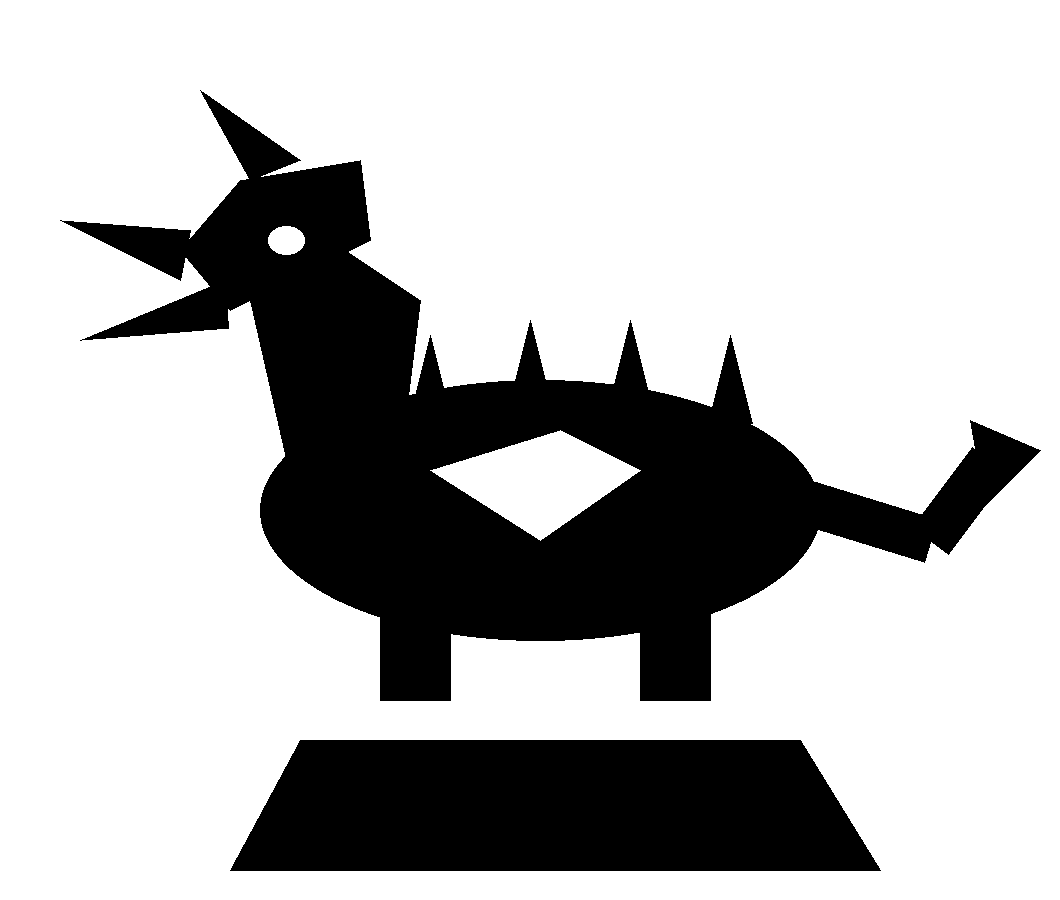
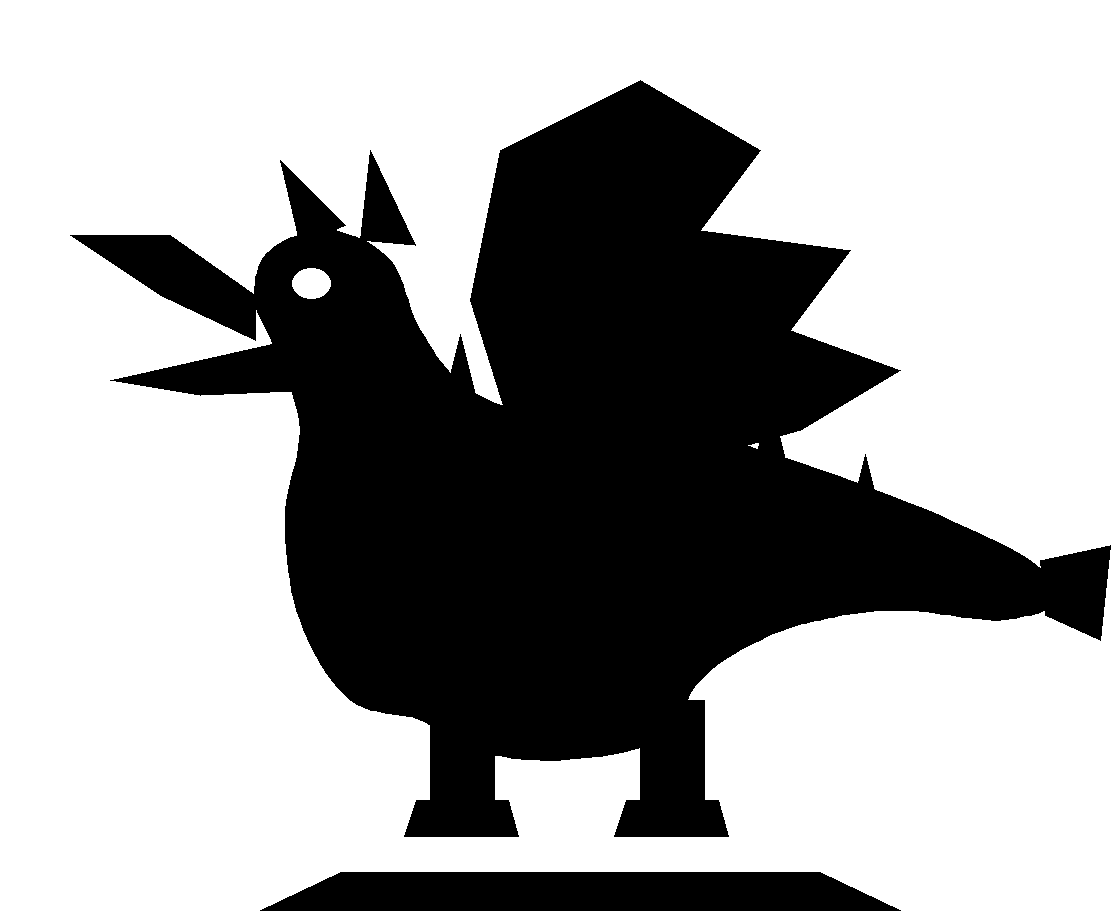
Wawel dragon take three: realistic per Eric's note, still pending
"wawel dragon more realistic if possible better pic". The Chromy
statue is still-copyrighted sculpture, so the realism is drawn: a
smooth Catmull-Rom body, a single falcate bat-wing whose cusps carry
the membrane read (spoke seams severed the wing into flagged strips
twice), horned head with open jaw rooted 40px into the throat after
hovering twice, tapered tail with its spade. Zero corridor flags.
Pending Eric's eye with the rest of batch 6.

diff --git a/tools/draw_wave14.py b/tools/draw_wave14.py
@@ -29,36 +29,61 @@ def circle(d, cx, cy, r, fill):
 
 
 def waweldragon():
-    """Krakow's dragon in clean profile: arched neck, horned head with
-    open jaw, four back spikes, a folded wing as a hole, tail with its
-    spade — standing on the rock across an aligned gap."""
-    im, d = canvas(1060, 900)
-    # body: long horizontal mass
-    d.ellipse([260, 380, 820, 640], fill=BLACK)
-    # neck arching up-left, rooted deep
-    d.polygon([(300, 520), (250, 300), (330, 240), (420, 300), (400, 460)], fill=BLACK)
-    # head: skull + horn + open jaw, welded to the neck top
-    d.polygon([(230, 310), (370, 240), (360, 160), (240, 180), (180, 250)], fill=BLACK)
-    d.polygon([(250, 180), (200, 90), (300, 160)], fill=BLACK)          # horn
-    d.polygon([(190, 230), (60, 220), (180, 280)], fill=BLACK)          # upper snout
-    d.polygon([(225, 280), (80, 340), (228, 328)], fill=BLACK)          # lower jaw, rooted in the skull
-    # eye (micro hole)
-    d.ellipse([268, 226, 304, 254], fill=WHITE)
-    # four back spikes rooted 30px into the body
-    for k in range(4):
-        cx = 430 + k * 100
-        cy = 402 - int(24 * (1 if k in (1, 2) else 0.4))
-        d.polygon([(cx - 22, cy + 30), (cx + 22, cy + 30), (cx, cy - 58)], fill=BLACK)
-    # folded wing: a hole in the body's shoulder
-    d.polygon([(430, 470), (560, 430), (640, 470), (540, 540)], fill=WHITE)
-    # legs to the rock line
-    d.rectangle([380, 600, 450, 700], fill=BLACK)
-    d.rectangle([640, 600, 710, 700], fill=BLACK)
-    # tail sweeping right, spade welded
-    d.line([(800, 500), (930, 540), (990, 460)], fill=BLACK, width=46)
-    d.polygon([(970, 420), (1040, 450), (985, 505)], fill=BLACK)
-    # the rock, aligned 40px below the paws
-    d.polygon([(300, 740), (800, 740), (880, 870), (230, 870)], fill=BLACK)
+    """Krakow's dragon, take two — Eric: "more realistic if possible".
+    (The 1972 Chromy statue is still-copyrighted sculpture, so this is a
+    drawn original.) One smooth Catmull-Rom body — sinuous neck, deep
+    chest, coiling tail — with a membraned wing (white spoke seams, the
+    kite-spar width), ridge scales rooted like the turtle ship's spikes,
+    and a crisp angular head welded on: realism lives in the curves,
+    identity in the head and wing."""
+    im, d = canvas(1120, 920)
+
+    def smooth_closed(knots, per=10):
+        def cr(p0, p1, p2, p3, t):
+            t2, t3 = t * t, t * t * t
+            return (0.5 * ((2 * p1[0]) + (-p0[0] + p2[0]) * t + (2 * p0[0] - 5 * p1[0] + 4 * p2[0] - p3[0]) * t2 + (-p0[0] + 3 * p1[0] - 3 * p2[0] + p3[0]) * t3),
+                    0.5 * ((2 * p1[1]) + (-p0[1] + p2[1]) * t + (2 * p0[1] - 5 * p1[1] + 4 * p2[1] - p3[1]) * t2 + (-p0[1] + 3 * p1[1] - 3 * p2[1] + p3[1]) * t3))
+        pts, n = [], len(knots)
+        for i in range(n):
+            for k in range(per):
+                pts.append(cr(knots[(i - 1) % n], knots[i], knots[(i + 1) % n], knots[(i + 2) % n], k / per))
+        return pts
+
+    # the beast: one flowing outline, clockwise from the chest
+    body = [
+        (350, 700), (300, 620), (285, 520), (300, 430), (280, 360),   # chest up the throat
+        (255, 300), (270, 250),                                        # throat to jaw hinge
+        (330, 230), (390, 260),                                        # skull back
+        (420, 330), (470, 390), (560, 420), (660, 420), (760, 450),    # nape and back
+        (850, 480), (950, 520), (1030, 560), (1060, 600),              # tail tapering out
+        (1000, 620), (900, 610), (820, 620),                           # under the tail
+        (760, 640), (700, 680), (660, 740),                            # haunch
+        (560, 760), (470, 750), (420, 720),                            # belly
+    ]
+    d.polygon(smooth_closed(body), fill=BLACK)
+    # crisp head: brow, snout, open jaw with its fang notch
+    d.polygon([(255, 295), (170, 235), (70, 235), (160, 295), (255, 340)], fill=BLACK)   # upper jaw, fuller
+    d.polygon([(310, 335), (110, 380), (200, 395), (315, 390)], fill=BLACK)              # lower jaw, 40px into the throat
+    d.polygon([(300, 245), (280, 160), (345, 225)], fill=BLACK)                          # horn
+    d.polygon([(360, 240), (370, 150), (415, 245)], fill=BLACK)                          # horn
+    d.ellipse([292, 268, 330, 298], fill=WHITE)                                          # eye
+    # the wing: ONE falcate bat-wing polygon — the outline itself does
+    # the realism (spokes and carved scallops kept severing the membrane
+    # into flagged strips; the cusps are in the polygon now)
+    d.polygon([(520, 460), (470, 300), (500, 150), (640, 80),
+               (760, 150), (700, 230), (850, 250), (790, 330),
+               (900, 370), (800, 430), (660, 470)], fill=BLACK)
+    # ridge scales rooted on the spine, standing proud
+    for (cx, cy) in [(460, 380), (560, 405), (660, 408), (770, 445), (865, 500)]:
+        d.polygon([(cx - 20, cy + 34), (cx + 20, cy + 34), (cx, cy - 46)], fill=BLACK)
+    # legs with three-toed feet
+    for x in (430, 640):
+        d.rectangle([x, 700, x + 64, 800], fill=BLACK)
+        d.polygon([(x - 14, 800), (x + 78, 800), (x + 88, 836), (x - 26, 836)], fill=BLACK)
+    # tail spade
+    d.polygon([(1040, 560), (1110, 545), (1100, 640), (1045, 615)], fill=BLACK)
+    # the rock, aligned gap below the feet
+    d.polygon([(340, 872), (820, 872), (900, 910), (260, 910)], fill=BLACK)
     return im
 
 
